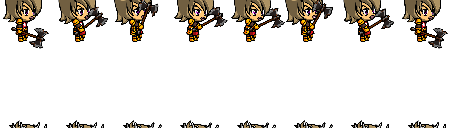
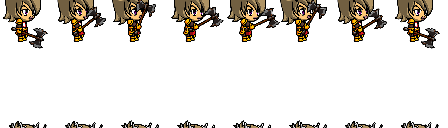
Re-crop druid/black_wizard sprites with per-frame bbox method (fixes upside-down rendering)

diff --git a/js/data.js b/js/data.js
@@ -50,12 +50,12 @@ const CHAR_SVG={
   block:{src:'img/engineer-block.png',w:95,h:128,tw:760},
   death:{src:'img/engineer-death.png',w:148,h:128,tw:1184}},
 드루이드:{type:'sprite',frames:8,
-  idle:{src:'img/druid-idle.png',w:85,h:128,tw:680},
-  walk:{src:'img/druid-walk.png',w:97,h:128,tw:776},
-  cast:{src:'img/druid-cast.png',w:57,h:128,tw:456},
-  slash:{src:'img/druid-slash.png',w:64,h:128,tw:512},
+  idle:{src:'img/druid-idle.png',w:84,h:128,tw:672},
+  walk:{src:'img/druid-walk.png',w:96,h:128,tw:768},
+  cast:{src:'img/druid-cast.png',w:56,h:128,tw:448},
+  slash:{src:'img/druid-slash.png',w:63,h:128,tw:504},
   block:{src:'img/druid-block.png',w:96,h:128,tw:768},
-  death:{src:'img/druid-death.png',w:138,h:128,tw:1104}},
+  death:{src:'img/druid-death.png',w:137,h:128,tw:1096}},
 소환사:{type:'sprite',frames:8,
   idle:{src:'img/summoner-idle.png',w:92,h:128,tw:736},
   walk:{src:'img/summoner-walk.png',w:103,h:128,tw:824},
@@ -68,8 +68,8 @@ const CHAR_SVG={
   walk:{src:'img/black_wizard-walk.png',w:86,h:128,tw:688},
   cast:{src:'img/black_wizard-cast.png',w:53,h:128,tw:424},
   slash:{src:'img/black_wizard-slash.png',w:55,h:128,tw:440},
-  block:{src:'img/black_wizard-block.png',w:91,h:128,tw:728},
-  death:{src:'img/black_wizard-death.png',w:139,h:128,tw:1112}},
+  block:{src:'img/black_wizard-block.png',w:90,h:128,tw:720},
+  death:{src:'img/black_wizard-death.png',w:138,h:128,tw:1104}},
 힐러:{type:'sprite',frames:8,
   idle:{src:'img/healer-idle.png',w:85,h:128,tw:680},
   walk:{src:'img/healer-walk.png',w:92,h:128,tw:736},

diff --git a/index.html b/index.html
@@ -194,7 +194,7 @@
 <div class="levelup-choices" id="levelup-choices"></div>
 </div>
 
-<script src="js/data.js?v=15"></script>
+<script src="js/data.js?v=16"></script>
 <script src="js/ai.js?v=16"></script>
 <script src="js/ui.js?v=17"></script>
 <script src="js/inventory.js?v=13"></script>
